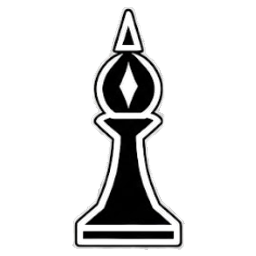
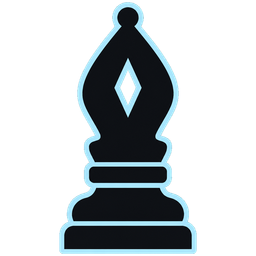
Regenerate Nexus pieces for clearer side and king/queen contrast.
White pieces are solid white with navy outlines; black pieces are dark with cyan outlines. Kings use a cross crown; queens use a multi-spike coronet.

Changed region(s): [[0.2188, 0.0, 0.7812, 1.0]]

diff --git a/website/public/games/nexus-chess/web/assets/index-BVtmO4iQ.js b/website/public/games/nexus-chess/web/assets/index-BVtmO4iQ.js
@@ -1,0 +1,1 @@
+(function(){const t=document.createElement("link").relList;if(t&&t.supports&&t.supports("modulepreload"))return;for(const r of document.querySelectorAll('link[rel="modulepreload"]'))o(r);new MutationObserver(r=>{for(const i of r)if(i.type==="childList")for(const a of i.addedNodes)a.tagName==="LINK"&&a.rel==="modulepreload"&&o(a)}).observe(document,{childList:!0,subtree:!0});function n(r){const i={};return r.integrity&&(i.integrity=r.integrity),r.referrerPolicy&&(i.referrerPolicy=r.referrerPolicy),r.crossOrigin==="use-credentials"?i.credentials="include":r.crossOrigin==="anonymous"?i.credentials="omit":i.credentials="same-origin",i}function o(r){if(r.ep)return;r.ep=!0;const i=n(r);fetch(r.href,i)}})();const ge=["d4","d5","e4","e5"];function B(e){return ge.includes(e)}function W(e){const t=e.charCodeAt(0)-97;return[e.charCodeAt(1)-49,t]}function k(e,t){return String.fromCharCode(97+t)+String.fromCharCode(49+e)}function de(e,t){return{kind:e,color:t,isShielded:!1,shieldExpiresTurn:-1,nexusTurnCount:0,hasMoved:!1}}function It(){const e=new Map,t=["R","N","B","Q","K","B","N","R"];for(let n=0;n<8;n++)e.set(k(0,n),de(t[n],"w")),e.set(k(1,n),de("P","w")),e.set(k(6,n),de("P","b")),e.set(k(7,n),de(t[n],"b"));return e}function lt(){return{board:It(),players:[{color:"w",mana:0},{color:"b",mana:0}],activeColor:"w",turnPhase:"ability",turnNumber:1,winner:null,enPassantSquare:null,overdriveSquare:null,overdriveMovesLeft:0}}function V(e,t){for(const[n,o]of e)if(o.kind==="K"&&o.color===t)return n;return null}function Lt(e){return{...e}}function ye(e){const t=new Map;for(const[n,o]of e)t.set(n,Lt(o));return t}function ve(e){return e.players[e.activeColor==="w"?0:1]}function le(e){return e==="w"?"b":"w"}const Wt=10;function at(e){return Math.min(Wt,Math.max(0,e))}function st(e){return e.activeColor==="w"?0:1}function Ot(e){const t=st(e),n=[{...e.players[0]},{...e.players[1]}];let o=0;for(const[r,i]of e.board)i.color===e.activeColor&&B(r)&&o++;return n[t].mana=at(n[t].mana+1+o),{...e,players:n}}function He(e,t){const n=st(e);if(e.players[n].mana<t)return null;const o=[{...e.players[0]},{...e.players[1]}];return o[n].mana=at(o[n].mana-t),{...e,players:o}}const _={aegis:3,overdrive:4,tacticalSwap:5};function ct(e,t){const n=e.board.get(t);return!(!n||n.color!==e.activeColor||n.isShielded||ve(e).mana<_.aegis||n.kind==="K"&&B(t))}function Kt(e,t){if(!ct(e,t))return null;const n=He(e,_.aegis);if(!n)return null;const o=ye(n.board),r={...o.get(t)};return r.isShielded=!0,r.shieldExpiresTurn=n.turnNumber+1,o.set(t,r),{...n,board:o}}function ut(e,t){const n=e.board.get(t);return!(!n||n.color!==e.activeColor||n.kind==="K"||ve(e).mana<_.overdrive||e.overdriveSquare)}function Ht(e,t){if(!ut(e,t))return null;const n=He(e,_.overdrive);return n?{...n,overdriveSquare:t,overdriveMovesLeft:2}:null}function ft(e,t){const n=e.board.get(t);return!(!n||n.color!==e.activeColor||n.kind==="K"||ve(e).mana<_.tacticalSwap||!V(e.board,e.activeColor)||B(t))}function zt(e,t){if(!ft(e,t))return null;const n=He(e,_.tacticalSwap);if(!n)return null;const o=ye(n.board),r=V(o,e.activeColor),i={...o.get(r)},a={...o.get(t)};return o.set(r,a),o.set(t,i),{...n,board:o}}function Dt(e,t){switch(t.ability){case"aegis":return!!t.target&&ct(e,t.target);case"overdrive":return!!t.target&&ut(e,t.target);case"tacticalSwap":return!!t.target&&ft(e,t.target)}}function Yt(e,t){switch(t.ability){case"aegis":return t.target?Kt(e,t.target):null;case"overdrive":return t.target?Ht(e,t.target):null;case"tacticalSwap":return t.target?zt(e,t.target):null}}function _t(e,t){const n=[];for(const[o,r]of e.board){if(r.color!==e.activeColor)continue;Dt(e,{ability:t,target:o})&&n.push(o)}return n}function pe(e,t){return e>=0&&e<8&&t>=0&&t<8}function ze(e,t,n){const o=e.get(t);return!(!o||o.color===n||o.kind==="K"&&!B(t))}function D(e,t){return!e.has(t)}function Te(e,t,n,o){const[r,i]=W(t),a=[];for(const[s,c]of o){let l=r+s,f=i+c;for(;pe(l,f);){const h=k(l,f);if(D(e,h))a.push({from:t,to:h});else{ze(e,h,n)&&a.push({from:t,to:h});break}l+=s,f+=c}}return a}function Je(e,t,n,o){const[r,i]=W(t),a=[];for(const[s,c]of o){const l=r+s,f=i+c;if(!pe(l,f))continue;const h=k(l,f);(D(e,h)||ze(e,h,n))&&a.push({from:t,to:h})}return a}const dt=[[1,0],[-1,0],[0,1],[0,-1]],ht=[[1,1],[1,-1],[-1,1],[-1,-1]],Gt=[...dt,...ht],Ft=[[2,1],[2,-1],[-2,1],[-2,-1],[1,2],[1,-2],[-1,2],[-1,-2]],Xt=[[1,0],[-1,0],[0,1],[0,-1],[1,1],[1,-1],[-1,1],[-1,-1]];function Ut(e,t,n,o){const[r,i]=W(t),a=n==="w"?1:-1,s=n==="w"?1:6,c=n==="w"?7:0,l=[],f=r+a;if(pe(f,i)){const h=k(f,i);if(D(e,h)){if(f===c)for(const d of["Q","R","B","N"])l.push({from:t,to:h,promotion:d});else l.push({from:t,to:h});if(r===s){const d=r+a*2,g=k(d,i);D(e,g)&&l.push({from:t,to:g})}}}for(const h of[-1,1]){if(!pe(f,i+h))continue;const d=k(f,i+h),g=d===o;if(ze(e,d,n)||g)if(f===c)for(const b of["Q","R","B","N"])l.push({from:t,to:d,promotion:b,isEnPassant:g?!0:void 0});else l.push({from:t,to:d,isEnPassant:g?!0:void 0})}return l}function Qt(e,t,n){const o=e.get(t);if(!o||o.hasMoved)return[];const r=n==="w"?0:7,i=[],a=e.get(k(r,7));if(a&&!a.hasMoved&&a.kind==="R"&&a.color===n){const c=k(r,5),l=k(r,6);D(e,c)&&D(e,l)&&i.push({from:t,to:l,isCastle:!0})}const s=e.get(k(r,0));if(s&&!s.hasMoved&&s.kind==="R"&&s.color===n){const c=k(r,3),l=k(r,2),f=k(r,1);D(e,c)&&D(e,l)&&D(e,f)&&i.push({from:t,to:l,isCastle:!0})}return i}function gt(e,t){const n=e.board.get(t);if(!n)return[];const{board:o}=e,r=n.color;switch(n.kind){case"P":return Ut(o,t,r,e.enPassantSquare);case"N":return Je(o,t,r,Ft);case"B":return Te(o,t,r,ht);case"R":return Te(o,t,r,dt);case"Q":return Te(o,t,r,Gt);case"K":return[...Je(o,t,r,Xt),...Qt(o,t,r)]}}function pt(e){const t=[];for(const[n,o]of e.board)o.color===e.activeColor&&(e.overdriveSquare&&n!==e.overdriveSquare||t.push(...gt(e,n)));return t}function xe(e,t){const n=new Map(e.board),o={...e.board.get(t.from)};o.hasMoved=!0;let r=!1,i=null;if(t.isEnPassant){const[l,f]=W(t.to),h=k(l+(o.color==="w"?-1:1),f);n.delete(h),r=!0}else if(n.has(t.to)){const l=n.get(t.to);if(l.isShielded){const f={...l,isShielded:!1,shieldExpiresTurn:-1};return n.set(t.to,f),n.delete(t.from),n.set(t.from,o),{...e,board:n,enPassantSquare:null,overdriveMovesLeft:Math.max(0,e.overdriveMovesLeft-1)}}r=!0}if(n.delete(t.from),t.promotion&&(o.kind=t.promotion),n.set(t.to,o),t.isCastle){const[l]=W(t.to),[,f]=W(t.to);if(f===6){const h={...n.get(k(l,7))};h.hasMoved=!0,n.delete(k(l,7)),n.set(k(l,5),h)}else{const h={...n.get(k(l,0))};h.hasMoved=!0,n.delete(k(l,0)),n.set(k(l,3),h)}}if(o.kind==="P"){const[l]=W(t.from),[f,h]=W(t.to);Math.abs(f-l)===2&&(i=k((l+f)/2,h))}const a=[{...e.players[0]},{...e.players[1]}];if(r){const l=e.activeColor==="w"?0:1;a[l].mana=Math.min(10,a[l].mana+2)}let s=e.overdriveSquare,c=e.overdriveMovesLeft;return s===t.from&&(s=t.to,c=Math.max(0,c-1)),{...e,board:n,players:a,enPassantSquare:i,overdriveSquare:s,overdriveMovesLeft:c}}function Vt(e){for(const t of["w","b"]){const n=V(e.board,t);if(n&&B(n)&&e.board.get(n).nexusTurnCount>=2)return t}return null}function Jt(e,t){const n=le(t.activeColor);if(V(t.board,n))return null;for(const[r,i]of e)if(i.kind==="K"&&i.color===n&&B(r))return t.activeColor;return null}function De(e){let t=Ot(e);const n=ye(t.board),o=V(n,t.activeColor);if(o){const i={...n.get(o)};B(o)?i.nexusTurnCount++:i.nexusTurnCount=0,n.set(o,i)}t={...t,board:n,turnPhase:"ability"};const r=Vt(t);return r?{...t,winner:r}:t}function mt(e,t){if(e.turnPhase!=="ability")return e;let n=e;if(t){const o=Yt(n,t);o&&(n=o)}return{...n,turnPhase:n.overdriveSquare?"overdrive":"move"}}function ae(e){return mt(e,null)}function se(e,t){if(e.turnPhase!=="move"&&e.turnPhase!=="overdrive")return e;const n=new Map([...e.board].map(([a,s])=>[a,{kind:s.kind,color:s.color}]));let o=xe(e,t);if(o.overdriveSquare&&o.overdriveMovesLeft>0){const[a]=[t.to.charCodeAt(1)-49];return o.overdriveMovesLeft===1&&(a===0||a===7)?e:{...o,turnPhase:"overdrive"}}o={...o,overdriveSquare:null,overdriveMovesLeft:0};const r=Jt(n,o);if(r)return{...o,winner:r,turnPhase:"resolved"};const i=ye(o.board);for(const[a,s]of i)if(s.isShielded&&s.shieldExpiresTurn<=o.turnNumber){const c={...s,isShielded:!1,shieldExpiresTurn:-1};i.set(a,c)}return{...o,board:i,turnPhase:"resolved"}}function Ye(e){if(e.turnPhase!=="resolved")return e;const t={...e,activeColor:le(e.activeColor),turnNumber:e.turnNumber+1,turnPhase:"ability",enPassantSquare:e.enPassantSquare};return De(t)}const jt={1:1,2:3,3:4,4:5},Zt={1:40,2:28,3:24,4:22},Re={P:100,N:320,B:330,R:500,Q:900,K:0};function en(e,t){const[n,o]=W(e),[r,i]=W(t);return Math.abs(n-r)+Math.abs(o-i)}function oe(e){if(B(e))return 0;let t=1/0;for(const n of ge){const o=en(e,n);o<t&&(t=o)}return t}function me(e,t,n){if(!B(t))return!1;const o={...e,activeColor:n,overdriveSquare:null};for(const r of pt(o))if(r.to===t)return!0;return!1}function be(e,t){if(e.winner===t)return 1e6;if(e.winner&&e.winner!==t)return-1e6;const n=le(t);let o=0,r=0,i=0,a=0,s=0;for(const[d,g]of e.board){const b=Re[g.kind];g.color===t?(r+=b,B(d)&&g.kind!=="K"&&a++):(i+=b,B(d)&&g.kind!=="K"&&s++)}o+=r-i,o+=(a-s)*80;const c=V(e.board,t),l=V(e.board,n);if(c){const d=oe(c),g=e.board.get(c);d===0?(o+=5500+g.nexusTurnCount*4e3,me(e,c,n)&&(o-=2e3)):o+=(14-d)*220}else o-=5e4;if(l){const d=oe(l),g=e.board.get(l);d===0?(o-=5500+g.nexusTurnCount*4e3,me(e,l,t)&&(o+=3500)):o-=(14-d)*220}const f=e.players[t==="w"?0:1].mana,h=e.players[n==="w"?0:1].mana;return o+=(f-h)*12,o}function tn(e,t,n){let o=0;const r=e.board.get(t.from),i=e.board.get(t.to);if(i&&i.kind==="K"&&B(t.to))return 1e5;if(i&&i.kind!=="K"&&(o+=Re[i.kind]*10-Re[r.kind]),r.kind==="K"){const a=oe(t.from),s=oe(t.to);if(s===0&&a>0){o+=5e3;const c=xe(e,t);me(c,t.to,le(n))&&(o-=1500)}if(a===0&&s===0){o+=2e3;const c=xe(e,t);me(c,t.to,le(n))&&(o-=800)}a===0&&s>0&&(o-=4e3),s<a?o+=(a-s)*400:s>a&&(o-=(s-a)*250)}else B(t.to)&&!B(t.from)&&(o+=120),B(t.from)&&!B(t.to)&&(o-=40),i&&oe(t.to)<=2&&(o+=30);return o}function nn(e,t){if(e.board.has(t.to))return!0;const n=e.board.get(t.from);return n?!!(n.kind==="K"&&B(t.to)):!1}function ce(e,t){let n=e;if(n.turnPhase==="ability"&&(n=ae(n)),n=se(n,t),n.winner)return n;if(n.turnPhase==="overdrive"){const o=ue(n,8);if(o.length>0&&(n=se(n,o[0]),n.winner))return n}return n.turnPhase==="resolved"&&(n=Ye(n)),n}function we(e){return e.turnPhase==="ability"?ae(e):e}function ue(e,t=40){const n=we(e),o=pt(n),r=n.activeColor;return o.map(i=>({m:i,sc:tn(n,i,r)})).sort((i,a)=>a.sc-i.sc).slice(0,t).map(i=>i.m)}function $e(e,t,n,o,r){if(e.winner)return be(e,o);const i=be(e,o),a=e.activeColor===o;if(r>=4)return i;if(a){if(i>=n)return n;i>t&&(t=i)}else{if(i<=t)return t;i<n&&(n=i)}const s=we(e),c=ue(s,16).filter(f=>nn(s,f));if(c.length===0)return i;if(a){let f=i;for(const h of c){const d=ce(e,h);if(f=Math.max(f,$e(d,t,n,o,r+1)),t=Math.max(t,f),t>=n)break}return f}let l=i;for(const f of c){const h=ce(e,f);if(l=Math.min(l,$e(h,t,n,o,r+1)),n=Math.min(n,l),t>=n)break}return l}function Ae(e,t,n,o,r,i){if(e.winner)return be(e,r);if(t===0)return $e(e,n,o,r,0);const a=e.activeColor===r,s=ue(e,i);if(s.length===0)return be(e,r);if(a){let l=-1/0;for(const f of s){const h=ce(e,f);if(l=Math.max(l,Ae(h,t-1,n,o,r,i)),n=Math.max(n,l),n>=o)break}return l}let c=1/0;for(const l of s){const f=ce(e,l);if(c=Math.min(c,Ae(f,t-1,n,o,r,i)),o=Math.min(o,c),n>=o)break}return c}function Ee(e){return e[Math.floor(Math.random()*e.length)]}function on(e){const t=we(e),n=ue(t,40);if(n.length===0)return null;const o=Math.random();return o<.6?n[0]:o<.9?Ee(n.slice(0,Math.min(3,n.length))):Ee(n.slice(0,Math.min(8,n.length)))}function rn(e,t,n){const o=we(e),r=o.activeColor,i=ue(o,n);if(i.length===0)return null;let a=[i[0]];for(let s=1;s<=t;s++){let c=-1/0,l=[];const f=[...a,...i.filter(h=>!a.some(d=>d.from===h.from&&d.to===h.to&&d.promotion===h.promotion))];for(const h of f){const d=ce(o,h),g=Ae(d,s-1,-1/0,1/0,r,n);g>c?(c=g,l=[h]):g===c&&l.push(h)}a=l}return Ee(a)}function je(e,t=2){return t===0?null:t===1?on(e):rn(e,jt[t],Zt[t])}function ln(e,t=2){if(t===0)return e;let n=e;n.turnPhase==="ability"&&(n=ae(n));const o=je(n,t);if(!o||(n=se(n,o),n.winner))return n;for(;n.turnPhase==="overdrive"&&!n.winner;){const r=je(n,t===1?1:2);if(!r)break;n=se(n,r)}return n.winner?n:n.turnPhase==="resolved"?Ye(n):n}function an(e){switch(e){case 1:return 250;case 2:return 120;case 3:return 80;case 4:return 40;default:return 0}}const bt=1200,St=32,_e=100,Ge=3e3,Z=100,Pe=[{label:"New to Chess",elo:400,blurb:"Just learning the rules"},{label:"Beginner",elo:800,blurb:"Know the basics"},{label:"Intermediate",elo:1200,blurb:"Regular player"},{label:"Advanced",elo:1600,blurb:"Strong club level"},{label:"Expert",elo:2e3,blurb:"Tournament strength"},{label:"Master",elo:2400,blurb:"Elite"}],re=[400,600,800,1e3,1200,1400,1600,1800,2e3,2200,2500],yt="nexus-chess-elo";function sn(e,t){return 1/(1+Math.pow(10,(t-e)/400))}function cn(e,t,n,o=St){return Math.round(o*(n-sn(e,t)))}function un(e,t,n,o=St){return Math.max(_e,Math.min(Ge,e+cn(e,t,n,o)))}function F(e){const t=Math.round(e/Z)*Z;return Math.max(_e,Math.min(Ge,t))}function vt(e){return e<=900?1:e<=1300?2:e<=1700?3:4}function Ze(){return{rating:bt,games:0,wins:0,losses:0,draws:0,hasSetRating:!1}}function Fe(){try{const e=localStorage.getItem(yt);if(!e)return Ze();const t=JSON.parse(e);return{rating:typeof t.rating=="number"?F(t.rating):bt,games:typeof t.games=="number"?t.games:0,wins:typeof t.wins=="number"?t.wins:0,losses:typeof t.losses=="number"?t.losses:0,draws:typeof t.draws=="number"?t.draws:0,hasSetRating:t.hasSetRating===!0}}catch{return Ze()}}function wt(e){localStorage.setItem(yt,JSON.stringify(e))}function fn(e,t){const n={...e,rating:F(t),hasSetRating:!0};return wt(n),n}function dn(e,t,n){if(!n)return{profile:e,result:null};const o=F(t),r=n==="w"?1:0,i=e.rating,a=un(i,o,r),s=a-i,c={...e,rating:a,games:e.games+1,wins:e.wins+(r===1?1:0),losses:e.losses+(r===0?1:0),hasSetRating:!0};return wt(c),{profile:c,result:{before:i,after:a,delta:s,opponentElo:o}}}const hn={id:"classic",label:"Classic",bg:"#050506",bgSoft:"#0a0a0c",tileDark:"#0c0c0e",tileLight:"#16161a",tileSheen:"rgba(255,255,255,0.035)",nexus:"#ffffff",nexusGlow:"rgba(255,255,255,0.55)",accent:"#f5f5f6",accentDim:"rgba(245,245,246,0.35)",ink:"#f5f5f6",inkDim:"rgba(245,245,246,0.62)",inkMute:"rgba(245,245,246,0.32)",inkFaint:"rgba(245,245,246,0.14)",hairline:"rgba(245,245,246,0.14)",hairlineStrong:"rgba(245,245,246,0.42)",hairlineBright:"rgba(245,245,246,0.72)",whitePiece:"#fafafb",blackPiece:"#9a9ea8",pieceShadow:"rgba(0,0,0,0.55)",btnFill:"rgba(255,255,255,0.045)",btnFillActive:"rgba(255,255,255,0.1)",radius:4,font:'"Space Grotesk", "Segoe UI", system-ui, sans-serif',pieceMode:"unicode",angular:!1,backdropUrl:null},kt={id:"nexus",label:"Nexus",bg:"#03050a",bgSoft:"#070b14",tileDark:"#080c14",tileLight:"#121a28",tileSheen:"rgba(140,200,230,0.05)",nexus:"#9fdfff",nexusGlow:"rgba(120,210,255,0.55)",accent:"#8ed6ff",accentDim:"rgba(142,214,255,0.35)",ink:"#eef7ff",inkDim:"rgba(220,235,250,0.7)",inkMute:"rgba(170,200,230,0.4)",inkFaint:"rgba(140,180,220,0.16)",hairline:"rgba(150,200,240,0.18)",hairlineStrong:"rgba(160,210,255,0.45)",hairlineBright:"rgba(190,230,255,0.85)",whitePiece:"#f4fbff",blackPiece:"#7a8798",pieceShadow:"rgba(0,8,20,0.65)",btnFill:"rgba(120,180,230,0.06)",btnFillActive:"rgba(120,200,255,0.14)",radius:1,font:'"Space Grotesk", "Segoe UI", system-ui, sans-serif',pieceMode:"sprites",angular:!0,backdropUrl:"./themes/nexus/backdrop.png"},gn={nexus:kt,classic:hn},Mt="nexus-chess-theme";function pn(){try{const e=localStorage.getItem(Mt);if(e==="classic"||e==="nexus")return e}catch{}return"nexus"}let u=kt;function Tt(e){u=gn[e];try{localStorage.setItem(Mt,e)}catch{}return u}function mn(){return Tt(pn())}let ee=null,qe=!1,Se=null,Be=!1;function Pt(){return Promise.all([new Promise(e=>{if(!u.backdropUrl){ee=null,qe=!1,e();return}const t=new Image;t.onload=()=>{ee=t,qe=!0,e()},t.onerror=()=>e(),t.src=u.backdropUrl}),new Promise(e=>{if(u.id!=="nexus"){Se=null,Be=!1,e();return}const t=new Image;t.onload=()=>{Se=t,Be=!0,e()},t.onerror=()=>e(),t.src="./themes/nexus/tile.png"})]).then(()=>{})}function Y(e,t,n,o,r,i=u.radius){const a=Math.max(0,Math.min(i,o/2,r/2));if(e.beginPath(),a<=.5){e.rect(t,n,o,r);return}e.moveTo(t+a,n),e.arcTo(t+o,n,t+o,n+r,a),e.arcTo(t+o,n+r,t,n+r,a),e.arcTo(t,n+r,t,n,a),e.arcTo(t,n,t+o,n,a),e.closePath()}function J(e,t,n,o=0){if(e.fillStyle=u.bg,e.fillRect(0,0,t,n),qe&&ee){const l=ee.naturalWidth,f=ee.naturalHeight,h=Math.max(t/l,n/f),d=l*h,g=f*h;e.save(),e.globalAlpha=u.id==="nexus"?.55:.35,e.drawImage(ee,(t-d)/2,(n-g)/2,d,g),e.restore()}const r=.7+.12*Math.sin(o*.7),i=t*.5,a=n*.38,s=e.createRadialGradient(i,a,0,i,a,Math.max(t,n)*.58);if(u.id==="nexus"?(s.addColorStop(0,`rgba(120,200,255,${.1*r})`),s.addColorStop(.4,`rgba(80,160,220,${.035*r})`),s.addColorStop(1,"rgba(0,0,0,0)")):(s.addColorStop(0,`rgba(255,255,255,${.07*r})`),s.addColorStop(.4,`rgba(255,255,255,${.022*r})`),s.addColorStop(1,"rgba(0,0,0,0)")),e.fillStyle=s,e.fillRect(0,0,t,n),u.id==="nexus"){e.save(),e.strokeStyle="rgba(120,180,230,0.04)",e.lineWidth=1;const l=48,f=o*4%l;for(let h=-l+f;h<t+l;h+=l)e.beginPath(),e.moveTo(h,0),e.lineTo(h,n),e.stroke();for(let h=-l+f*.5;h<n+l;h+=l)e.beginPath(),e.moveTo(0,h),e.lineTo(t,h),e.stroke();e.restore()}const c=e.createRadialGradient(t/2,n/2,Math.min(t,n)*.2,t/2,n/2,Math.max(t,n)*.75);c.addColorStop(0,"rgba(0,0,0,0)"),c.addColorStop(1,u.id==="nexus"?"rgba(0,4,12,0.72)":"rgba(0,0,0,0.62)"),e.fillStyle=c,e.fillRect(0,0,t,n)}function bn(e,t,n,o){const i=e.createRadialGradient(t+o/2,n+o*.55,o*.15,t+o/2,n+o*.6,o*.72);i.addColorStop(0,u.id==="nexus"?"rgba(0,20,40,0.7)":"rgba(0,0,0,0.55)"),i.addColorStop(1,"rgba(0,0,0,0)"),e.fillStyle=i,e.fillRect(t-18,n-18*.4,o+36,o+18*1.4)}function Sn(e,t,n,o,r,i={}){i.fill!==!1&&(e.fillStyle=u.btnFill,Y(e,t,n,o,r),e.fill()),e.strokeStyle=i.strong?u.hairlineStrong:u.hairline,e.lineWidth=1,Y(e,t+.5,n+.5,o-1,r-1),e.stroke(),u.angular&&i.strong&&(e.strokeStyle=u.accent,e.lineWidth=1.25,e.beginPath(),e.moveTo(t,n+8),e.lineTo(t,n),e.lineTo(t+8,n),e.moveTo(t+o-8,n),e.lineTo(t+o,n),e.lineTo(t+o,n+8),e.moveTo(t+o,n+r-8),e.lineTo(t+o,n+r),e.lineTo(t+o-8,n+r),e.moveTo(t+8,n+r),e.lineTo(t,n+r),e.lineTo(t,n+r-8),e.stroke())}function R(e,t,n,o={}){const{x:r,y:i,w:a,h:s}=t,c=o.fontSize??15;if(o.primary){const l=e.createLinearGradient(r,i,r,i+s);u.id==="nexus"?(l.addColorStop(0,"rgba(140,210,255,0.28)"),l.addColorStop(.5,"rgba(80,160,220,0.14)"),l.addColorStop(1,"rgba(40,100,160,0.1)")):(l.addColorStop(0,"rgba(255,255,255,0.22)"),l.addColorStop(.5,"rgba(255,255,255,0.14)"),l.addColorStop(1,"rgba(255,255,255,0.08)")),e.fillStyle=l,Y(e,r,i,a,s),e.fill(),e.strokeStyle=u.hairlineBright}else o.active?(e.fillStyle=u.btnFillActive,Y(e,r,i,a,s),e.fill(),e.strokeStyle=u.hairlineBright):(e.fillStyle=u.btnFill,Y(e,r,i,a,s),e.fill(),e.strokeStyle=o.muted?u.inkFaint:u.hairline);e.lineWidth=1,Y(e,r+.5,i+.5,a-1,s-1),e.stroke(),u.angular&&(o.primary||o.active)&&(e.strokeStyle=u.accent,e.lineWidth=1,e.beginPath(),e.moveTo(r,i+6),e.lineTo(r,i),e.lineTo(r+6,i),e.moveTo(r+a-6,i+s),e.lineTo(r+a,i+s),e.lineTo(r+a,i+s-6),e.stroke()),e.textAlign="center",e.textBaseline="middle",e.fillStyle=o.muted?u.inkMute:o.primary||o.active?u.ink:u.inkDim,o.sub?(e.font=`500 ${c}px ${u.font}`,e.fillText(n,r+a/2,i+s/2-7),e.fillStyle=u.inkMute,e.font=`400 ${Math.max(10,c-2)}px ${u.font}`,e.fillText(o.sub,r+a/2,i+s/2+11)):(e.font=`500 ${c}px ${u.font}`,e.fillText(n,r+a/2,i+s/2+.5))}function yn(e,t,n,o,r){e.fillStyle=r?u.tileLight:u.tileDark,e.fillRect(t,n,o,o),Be&&Se&&u.id==="nexus"&&(e.save(),e.globalAlpha=r?.22:.14,e.drawImage(Se,t,n,o,o),e.restore()),r&&(e.fillStyle=u.tileSheen,e.fillRect(t,n,o,1))}const vn=["K","Q","R","B","N","P"],wn=["w","b"],Ne=new Map;let et=!1,he=null;function Ct(e,t){return e+t}function kn(){return et?Promise.resolve():he||(he=Promise.all(wn.flatMap(e=>vn.map(t=>new Promise(n=>{const o=new Image;o.onload=()=>{Ne.set(Ct(e,t),o),n()},o.onerror=()=>n(),o.src=`./themes/nexus/pieces/${e}${t}.png`})))).then(()=>{et=Ne.size>0}),he)}function Ie(e,t){return Ne.get(Ct(e,t))??null}function xt(e,t,n,o,r,i,a){const c=u.pieceMode==="sprites"?Ie(t,n):null;if(c&&c.complete&&c.naturalWidth>0){const l=i*.86;e.save(),e.globalAlpha=.35,e.fillStyle=u.pieceShadow,e.beginPath(),e.ellipse(o,r+l*.42,l*.28,l*.08,0,0,Math.PI*2),e.fill(),e.restore(),e.save(),u.id==="nexus"&&t==="b"?(e.shadowColor="rgba(140,210,255,0.45)",e.shadowBlur=Math.max(4,i*.08)):u.id==="nexus"&&t==="w"&&(e.shadowColor="rgba(200,240,255,0.25)",e.shadowBlur=Math.max(3,i*.05)),e.drawImage(c,o-l/2,r-l/2,l,l),e.restore();return}e.font=`${i*.68}px Georgia, "Times New Roman", serif`,e.textAlign="center",e.textBaseline="middle",e.fillStyle=u.pieceShadow,e.fillText(a,o+.5,r+i*.04),t==="w"?(e.fillStyle=u.whitePiece,e.fillText(a,o,r)):(e.fillStyle=u.blackPiece,e.fillText(a,o,r),e.strokeStyle="rgba(255,255,255,0.28)",e.lineWidth=.8,e.strokeText(a,o,r))}const Mn={wK:"♔",wQ:"♕",wR:"♖",wB:"♗",wN:"♘",wP:"♙",bK:"♚",bQ:"♛",bR:"♜",bB:"♝",bN:"♞",bP:"♟"};let te=null,Xe=!1;function Tn(){return new Promise(e=>{const t=new Image;t.onload=()=>{te=t,Xe=!0,e(t)},t.onerror=()=>e(null),t.src="./logo.png"})}function Pn(){return Xe?te:null}function Cn(e,t){return t?Math.max(136,Math.min(172,e*.32)):168}function Rt(e){const t=window.devicePixelRatio||1,n=window.visualViewport,o=Math.floor((n==null?void 0:n.width)??window.innerWidth),r=Math.floor((n==null?void 0:n.height)??window.innerHeight),i=o<640||r<700;e.width=Math.max(1,Math.floor(o*t)),e.height=Math.max(1,Math.floor(r*t)),e.style.width=o+"px",e.style.height=r+"px";const a=e.getContext("2d");a.setTransform(t,0,0,t,0,0);const s=i?16:28,c=i?78:100,l=Cn(r,i),f=o-s*2,h=r-c-l,d=i?560:Math.min(680,Math.floor(Math.min(f,h))),g=Math.max(160,Math.min(f,h,d)),b=g/8,v=(o-g)/2,M=c+Math.max(0,(h-g)/2);return{ctx:a,boardX:v,boardY:M,cellSize:b,boardSize:g,width:o,height:r,compact:i,pad:s}}function X(e,t,n=!1){const[o,r]=W(t),i=n?7-r:r,a=n?o:7-o;return[e.boardX+i*e.cellSize,e.boardY+a*e.cellSize]}function xn(e,t,n,o=!1){const r=Math.floor((t-e.boardX)/e.cellSize),i=Math.floor((n-e.boardY)/e.cellSize);if(r<0||r>7||i<0||i>7)return null;const a=o?7-r:r,s=o?i:7-i;return k(s,a)}function Rn(e){const{ctx:t,compact:n,pad:o}=e,r=n?52:76;if(Xe&&te){const i=te.naturalWidth/Math.max(1,te.naturalHeight),a=r*i,s=n?10:12;t.drawImage(te,o,s,a,r)}else t.fillStyle=u.ink,t.font=`500 ${n?22:28}px ${u.font}`,t.textAlign="left",t.textBaseline="middle",t.fillText("NEXUS",o,n?30:40)}function $n(e,t,n){const{ctx:o,cellSize:r}=e,i=.1+.06*(.5+.5*Math.sin(t*1.4)),a=u.id==="nexus",s=ge.map(b=>X(e,b,n)),c=Math.min(...s.map(([b])=>b)),l=Math.min(...s.map(([,b])=>b)),f=r*2,h=c+f/2,d=l+f/2,g=o.createRadialGradient(h,d,0,h,d,f*.9);a?(g.addColorStop(0,`rgba(140,220,255,${.14+i*.4})`),g.addColorStop(.5,`rgba(80,170,230,${.05+i*.15})`),g.addColorStop(1,"rgba(40,100,160,0)")):(g.addColorStop(0,`rgba(255,255,255,${.07+i*.35})`),g.addColorStop(.55,`rgba(255,255,255,${.025+i*.12})`),g.addColorStop(1,"rgba(255,255,255,0)")),o.fillStyle=g,o.fillRect(c-r*.35,l-r*.35,f+r*.7,f+r*.7);for(const b of ge){const[v,M]=X(e,b,n),P=v+r/2,m=M+r/2,p=o.createRadialGradient(P,m,0,P,m,r*.55);a?(p.addColorStop(0,`rgba(160,230,255,${i+.06})`),p.addColorStop(1,"rgba(100,180,230,0)")):(p.addColorStop(0,`rgba(255,255,255,${i+.04})`),p.addColorStop(1,"rgba(255,255,255,0)")),o.fillStyle=p,o.fillRect(v,M,r,r)}o.strokeStyle=a?`rgba(160,230,255,${.35+i})`:`rgba(255,255,255,${.18+i*.9})`,o.lineWidth=a?1.5:1,o.strokeRect(c+1.5,l+1.5,f-3,f-3),a&&(o.strokeStyle=`rgba(120,200,255,${.2+i*.4})`,o.lineWidth=1,o.strokeRect(c+5,l+5,f-10,f-10))}function An(e,t,n,o,r,i,a){xt(e,i,a,n,o,r,t)}function En(e,t,n,o,r,i,a,s=!1,c=null){const{ctx:l,boardX:f,boardY:h,cellSize:d,boardSize:g,width:b,height:v,compact:M}=e;J(l,b,v,n),Rn(e),bn(l,f,h,g),l.fillStyle=u.bgSoft,l.fillRect(f-3,h-3,g+6,g+6);for(let m=0;m<8;m++)for(let p=0;p<8;p++){const S=f+p*d,w=h+(7-m)*d,T=s?7-m:m,A=s?7-p:p,C=(T+A)%2!==0;yn(l,S,w,d,C)}if(l.strokeStyle=u.id==="nexus"?u.hairlineBright:u.hairlineStrong,l.lineWidth=u.id==="nexus"?1.5:1,l.strokeRect(f-.5,h-.5,g+1,g+1),u.id==="nexus"&&(l.strokeStyle=u.accentDim,l.lineWidth=1,l.strokeRect(f-4.5,h-4.5,g+9,g+9)),$n(e,n,s),o){const[m,p]=X(e,o,s);l.fillStyle=u.id==="nexus"?"rgba(140,210,255,0.12)":"rgba(255,255,255,0.1)",l.fillRect(m,p,d,d),l.strokeStyle=u.id==="nexus"?u.accent:"rgba(255,255,255,0.7)",l.lineWidth=1.25,l.strokeRect(m+2,p+2,d-4,d-4)}const P=new Set(r.map(m=>m.to));for(const m of P){const[p,S]=X(e,m,s),w=p+d/2,T=S+d/2;t.board.has(m)?(l.strokeStyle=u.id==="nexus"?u.accent:"rgba(255,255,255,0.55)",l.lineWidth=1.5,l.beginPath(),l.arc(w,T,d*.4,0,Math.PI*2),l.stroke()):(l.fillStyle=u.id==="nexus"?"rgba(160,230,255,0.55)":"rgba(255,255,255,0.42)",l.beginPath(),l.arc(w,T,Math.max(2.8,d*.08),0,Math.PI*2),l.fill())}if(a)for(const m of i){const[p,S]=X(e,m,s);l.strokeStyle="rgba(255,255,255,0.45)",l.lineWidth=1,l.strokeRect(p+4,S+4,d-8,d-8)}for(const[m,p]of t.board){if(c&&m===c)continue;const[S,w]=X(e,m,s),T=S+d/2,A=w+d/2;p.isShielded&&(l.strokeStyle="rgba(255,255,255,0.5)",l.lineWidth=1,Y(l,S+5,w+5,d-10,d-10,2),l.stroke()),t.overdriveSquare===m&&(l.fillStyle="rgba(255,255,255,0.07)",l.fillRect(S,w,d,d));const C=Mn[p.color+p.kind];An(l,C,T,A,d,p.color,p.kind)}if(!M||d>=40){l.font=`400 ${Math.max(9,Math.min(10,d*.18))}px ${u.font}`,l.fillStyle=u.inkMute,l.textAlign="center",l.textBaseline="middle";for(let m=0;m<8;m++){const p=s?"hgfedcba"[m]:"abcdefgh"[m];l.fillText(p,f+m*d+d/2,h+g+14)}l.textAlign="right";for(let m=0;m<8;m++){const p=String(s?8-m:m+1);l.fillText(p,f-8,h+(7-m)*d+d/2)}}}function qn(e,t,n,o){const{ctx:r,boardSize:i,width:a,compact:s}=e;n.length=0;const c=e.boardY+i+(s?22:28),l=Math.min(i,a-e.pad*2),f=(a-l)/2,h=s?36:34,d=s?11:12;{const p=s?12:16,S=s?72:84,w={x:a-e.pad-S,y:p,w:S,h:30,id:"play-menu"};R(r,w,"Menu",{fontSize:d}),n.push(w),r.fillStyle=u.inkMute,r.font=`400 ${d}px ${u.font}`,r.textAlign="right",r.textBaseline="middle",r.fillText(o,w.x-12,p+15)}const g=s?22:56,b=3,v=s?20:24;for(let p=0;p<2;p++){const S=t.players[p],w=s?S.color==="w"?"W":"B":S.color==="w"?"White":"Black",T=c+p*v;r.fillStyle=u.inkDim,r.font=`400 ${d}px ${u.font}`,r.textAlign="left",r.textBaseline="middle",r.fillText(w,f,T+v/2);const A=f+g,C=l-g,q=T+(v-b)/2;r.fillStyle="rgba(255,255,255,0.06)",Y(r,A,q,C,b,1.5),r.fill();const O=Math.min(10,S.mana)/10*C;if(O>0){const N=r.createLinearGradient(A,0,A+O,0);N.addColorStop(0,"rgba(255,255,255,0.45)"),N.addColorStop(1,"rgba(255,255,255,0.85)"),r.fillStyle=N,Y(r,A,q,Math.max(O,b),b,1.5),r.fill()}}const M=c+v*2+(s?10:14),P=t.activeColor==="w"?"White":"Black",m=t.turnPhase==="ability"?"Ability":t.turnPhase==="overdrive"?"Overdrive":t.turnPhase==="move"?"Move":"";if(r.fillStyle=u.inkDim,r.font=`400 ${d}px ${u.font}`,r.textAlign="left",r.textBaseline="alphabetic",r.fillText(`Turn ${t.turnNumber}  ·  ${P}  ·  ${m}`,f,M),t.turnPhase==="ability"&&!t.winner){const p=M+(s?12:16),S=[{id:"aegis",label:"Aegis",cost:_.aegis},{id:"overdrive",label:s?"Drive":"Overdrive",cost:_.overdrive},{id:"tacticalSwap",label:"Swap",cost:_.tacticalSwap},{id:"skip",label:"Skip"}],w=s?8:10,T=(l-w*(S.length-1))/S.length,A=ve(t).mana;for(let C=0;C<S.length;C++){const q=S[C],O=f+C*(T+w),N=q.id==="skip"||q.cost!==void 0&&A>=q.cost,U={x:O,y:p,w:T,h,id:q.id},Me=q.id==="skip"?"Skip":`${q.label}  ${q.cost}`;R(r,U,Me,{muted:!N&&q.id!=="skip",primary:q.id==="skip",fontSize:s?11:12}),n.push(U)}}}function $t(){return{mode:"idle",selected:null,legalMoves:[],activeAbility:null,abilityTargetSquares:[]}}function Bn(e,t,n){for(const o of e)if(t>=o.x&&t<=o.x+o.w&&n>=o.y&&n<=o.y+o.h)return o.id;return null}function Nn(e,t,n,o,r,i,a=!1){const s=Bn(o,r,i);if(s){if(s==="skip")return{type:"skip"};if(s==="newgame")return{type:"newgame"};if(s==="play-menu")return{type:"menu"};if(s==="cycleai"||s==="toggleai")return{type:"cycleai"};if(s==="aegis"||s==="overdrive"||s==="tacticalSwap")return{type:"ability",ability:s}}const c=xn(n,r,i,a);if(!c)return{type:"none"};if(e.mode==="abilityTarget"&&e.activeAbility)return e.abilityTargetSquares.includes(c)?{type:"abilityTarget",square:c,ability:e.activeAbility}:{type:"deselect"};if(t.turnPhase==="ability"){const l=t.board.get(c);return l&&l.color===t.activeColor?{type:"selectAfterSkip",square:c}:{type:"none"}}if(t.turnPhase==="move"||t.turnPhase==="overdrive"){if(e.selected){const f=e.legalMoves.find(d=>d.to===c);if(f)return{type:"move",move:f,square:c};const h=t.board.get(c);return h&&h.color===t.activeColor?t.overdriveSquare&&c!==t.overdriveSquare?{type:"none"}:{type:"select",square:c}:{type:"deselect"}}const l=t.board.get(c);if(l&&l.color===t.activeColor)return t.overdriveSquare&&c!==t.overdriveSquare?{type:"none"}:{type:"select",square:c}}return{type:"none"}}function tt(e,t,n){const o=gt(t,n);let r=o;return t.overdriveMovesLeft===1&&(r=o.filter(i=>{const a=i.to.charCodeAt(1)-49;return a!==0&&a!==7})),{...e,mode:"selecting",selected:n,legalMoves:r,activeAbility:null,abilityTargetSquares:[]}}function In(e,t,n){const o=_t(t,n);return{...e,mode:"abilityTarget",selected:null,legalMoves:[],activeAbility:n,abilityTargetSquares:o}}function G(e){return $t()}function Ln(e,t){return{ability:e,target:t}}function nt(e,t,n){return e+(t-e)*n}function Wn(e){return 1-Math.pow(1-e,3)}function On(e,t,n,o){const r=n-t.startTime;if(r>=t.duration)return!1;const i=Wn(r/t.duration),a=nt(t.fromX,t.toX,i),s=nt(t.fromY,t.toY,i),c=a+o/2,l=s+o/2,f=Math.sin(i*Math.PI)*o*.06;return xt(e,t.color,t.kind,c,l-f,o,t.piece),!0}function Kn(e,t,n){const o=n-t.startTime;if(o>=t.duration)return!1;const r=o/t.duration,i=(1-r)*.55,a=t.x+t.size/2,s=t.y+t.size/2,c=t.size*(.35+r*.45),l=e.createRadialGradient(a,s,0,a,s,c);return u.id==="nexus"?(l.addColorStop(0,`rgba(160,230,255,${i})`),l.addColorStop(1,"rgba(80,160,220,0)")):(l.addColorStop(0,`rgba(255,255,255,${i})`),l.addColorStop(1,"rgba(255,255,255,0)")),e.fillStyle=l,e.fillRect(t.x-t.size*.2,t.y-t.size*.2,t.size*1.4,t.size*1.4),!0}let ne=null,At=!1;function Hn(e){ne=e,At=!!e}function Ue(e,t,n,o,r=0){const i=1+.018*Math.sin(r*1.1),a=o*i;if(At&&ne){const s=ne.naturalWidth/Math.max(1,ne.naturalHeight),c=a*s,l=e.createRadialGradient(t/2,n,0,t/2,n,c*.7);l.addColorStop(0,"rgba(255,255,255,0.07)"),l.addColorStop(1,"rgba(255,255,255,0)"),e.fillStyle=l,e.beginPath(),e.arc(t/2,n,c*.65,0,Math.PI*2),e.fill(),e.drawImage(ne,t/2-c/2,n-a/2,c,a)}else e.fillStyle=u.ink,e.font=`500 ${o*.55}px ${u.font}`,e.textAlign="center",e.textBaseline="middle",e.fillText("NEXUS",t/2,n)}function zn(e,t,n=0){const{ctx:o,width:r,height:i,compact:a,pad:s}=e;t.length=0,J(o,r,i,n);const c=a?96:140,l=i*.3;if(Ue(o,r,l,c,n),o.fillStyle=u.inkMute,o.font=`400 ${a?13:15}px ${u.font}`,o.textAlign="center",o.textBaseline="alphabetic",o.letterSpacing="0.18em",o.fillText("ZONE-CONTROL CHESS",r/2,l+c/2+(a?30:40)),o.letterSpacing="0px",u.pieceMode==="sprites"){const d=["K","Q","B","N","R","P"],g=a?32:42,b=a?8:12,v=d.length*g+(d.length-1)*b,M=l+c/2+(a?52:68);let P=(r-v)/2;for(const p of d){const S=Ie("w",p);S&&o.drawImage(S,P,M,g,g),P+=g+b}const m=M+g+(a?8:10);P=(r-v)/2;for(const p of d){const S=Ie("b",p);S&&o.drawImage(S,P,m,g,g),P+=g+b}}const f=Math.min(260,r-s*2),h={x:(r-f)/2,y:i*.72,w:f,h:a?52:56,id:"home-play"};R(o,h,"Play",{primary:!0,fontSize:a?16:18}),t.push(h)}function Dn(e,t,n,o=0){const{ctx:r,width:i,height:a,compact:s,pad:c}=e;t.length=0,J(r,i,a,o);const l=s?42:56;Ue(r,i,s?48:58,l,o*.6);const f=s?28+l+36:36+l+42,h=Math.min(280,i-c*2),d={x:(i-h)/2,y:f,w:h,h:s?76:86,id:"hub-setelo"};Sn(r,d.x,d.y,d.w,d.h,{strong:!0}),r.fillStyle=u.inkMute,r.font=`400 10px ${u.font}`,r.textAlign="center",r.textBaseline="alphabetic",r.letterSpacing="0.22em",r.fillText("YOUR RATING",i/2,d.y+22),r.letterSpacing="0px",r.fillStyle=u.ink,r.font=`500 ${s?30:36}px ${u.font}`,r.fillText(String(n.rating),i/2,d.y+(s?52:56)),r.fillStyle=u.inkMute,r.font=`400 10px ${u.font}`,r.fillText(n.hasSetRating?`${n.wins}W · ${n.losses}L · tap to change`:"tap to set your rating",i/2,d.y+d.h-14),t.push(d);const g=Math.min(320,i-c*2),b=(i-g)/2,v=s?50:54;let M=d.y+d.h+(s?24:32);const P={x:b,y:M,w:g,h:v,id:"menu-vsai"};R(r,P,"Play Computer",{primary:!0,fontSize:s?15:16}),t.push(P),M+=v+12;const m={x:b,y:M,w:g,h:v,id:"menu-local"};R(r,m,"Local Multiplayer",{fontSize:s?15:16}),t.push(m),M+=v+12;const p={x:b,y:M,w:g,h:v-6,id:"menu-how"};R(r,p,"How to Play",{fontSize:s?13:14}),t.push(p);const S={x:b,y:a-c-40,w:g,h:36,id:"hub-home"};R(r,S,"Home",{fontSize:12}),t.push(S);const w=Math.min(200,g),T={x:(i-w)/2,y:S.y-48,w,h:34,id:"hub-theme"};R(r,T,`Theme · ${u.label}`,{active:u.id==="nexus",fontSize:12}),t.push(T)}function Yn(e,t,n,o,r=0){const{ctx:i,width:a,height:s,compact:c,pad:l}=e;t.length=0,J(i,a,s,r),i.fillStyle=u.ink,i.font=`500 ${c?18:22}px ${u.font}`,i.textAlign="center",i.textBaseline="alphabetic",i.fillText("What's your rating?",a/2,c?36:48),i.fillStyle=u.inkMute,i.font=`400 12px ${u.font}`,i.fillText("Pick a starting level — like Chess.com",a/2,c?58:72);const f=Math.min(340,a-l*2),h=(a-f)/2,d=2,g=8,b=(f-g)/d,v=c?52:58,M=c?80:100;for(let A=0;A<Pe.length;A++){const C=Pe[A],q=A%d,O=Math.floor(A/d),N={x:h+q*(b+g),y:M+O*(v+g),w:b,h:v,id:`elo-preset-${C.elo}`};R(i,N,`${C.label}`,{active:o===C.elo,primary:o===C.elo,sub:String(C.elo),fontSize:c?12:13}),t.push(N)}const P=Math.ceil(Pe.length/d),m=M+P*(v+g)+8,p=(f-10)/2,S={x:h,y:m,w:p,h:40,id:"elo-minus"},w={x:h+p+10,y:m,w:p,h:40,id:"elo-plus"};R(i,S,"− 100",{fontSize:14}),R(i,w,"+ 100",{fontSize:14}),t.push(S,w),i.fillStyle=u.inkDim,i.font=`500 15px ${u.font}`,i.fillText(`Selected  ${o}`,a/2,m+56);const T={x:h,y:s-l-50,w:f,h:46,id:"elo-save"};R(i,T,n.hasSetRating?"Save Rating":"Continue",{primary:!0,fontSize:15}),t.push(T)}function _n(e,t,n,o,r=0){const{ctx:i,width:a,height:s,compact:c,pad:l}=e;t.length=0,J(i,a,s,r),i.fillStyle=u.ink,i.font=`500 ${c?18:22}px ${u.font}`,i.textAlign="center",i.textBaseline="alphabetic",i.fillText("Play Computer",a/2,c?40:52),i.fillStyle=u.inkMute,i.font=`400 12px ${u.font}`,i.fillText(`You  ${n.rating}  ·  choose opponent rating`,a/2,c?64:78),i.fillStyle=u.ink,i.font=`500 ${c?44:56}px ${u.font}`,i.fillText(String(o),a/2,c?122:144);const f=vt(o),h=["","Easy","Normal","Hard","Expert"][f];i.fillStyle=u.inkMute,i.font=`400 12px ${u.font}`,i.letterSpacing="0.16em",i.fillText(h.toUpperCase(),a/2,c?152:180),i.letterSpacing="0px";const d=Math.min(320,a-l*2),g=(a-d)/2,b=c?174:206,v=(d-10)/2,M={x:g,y:b,w:v,h:44,id:"opp-minus"},P={x:g+v+10,y:b,w:v,h:44,id:"opp-plus"};R(i,M,"−",{fontSize:20}),R(i,P,"+",{fontSize:20}),t.push(M,P);const m=b+60,p=4,S=8,w=(d-S*(p-1))/p,T=36;for(let N=0;N<re.length;N++){const U=re[N],Me=N%p,Nt=Math.floor(N/p),Ve={x:g+Me*(w+S),y:m+Nt*(T+S),w,h:T,id:`opp-${U}`};R(i,Ve,String(U),{active:o===U,primary:o===U,fontSize:12}),t.push(Ve)}const A=Math.ceil(re.length/p),C=m+A*(T+S)+16,q={x:g,y:C,w:d,h:48,id:"opp-start"};R(i,q,"Start Game",{primary:!0,fontSize:15}),t.push(q);const O={x:g,y:C+56,w:d,h:40,id:"menu-back"};R(i,O,"Back",{fontSize:13}),t.push(O)}function Gn(e,t,n=0){const{ctx:o,width:r,height:i,compact:a,pad:s}=e;t.length=0,J(o,r,i,n),o.fillStyle=u.ink,o.font=`500 ${a?20:24}px ${u.font}`,o.textAlign="center",o.textBaseline="alphabetic",o.fillText("How to Play",r/2,a?52:64);const c=["Win by holding the Nexus (d4–e5) with your King","for one full round — or capture the enemy King","only while it stands inside the Nexus.","","Kings are invincible outside the Nexus.","Earn Mana to cast Aegis, Overdrive, or Swap","before your move each turn.","","Set your rating, then pick a computer rating","to play — just like Chess.com.","Local multiplayer is unrated."];o.fillStyle=u.inkDim,o.font=`400 ${a?13:14}px ${u.font}`;let l=a?100:120;for(const d of c)o.fillText(d,r/2,l),l+=a?22:26;const f=Math.min(280,r-s*2),h={x:(r-f)/2,y:i-s-48,w:f,h:44,id:"menu-back"};R(o,h,"Back",{primary:!0,fontSize:14}),t.push(h)}function Fn(e,t,n,o=0){const{ctx:r,width:i,height:a,compact:s,pad:c}=e;t.length=0,J(r,i,a,o),Ue(r,i,a*.18,s?44:60,o);const l=n.mode==="ai"?n.winner==="w"?"Victory":"Defeat":`${n.winner==="w"?"White":"Black"} wins`;if(r.fillStyle=u.ink,r.font=`500 ${s?30:40}px ${u.font}`,r.textAlign="center",r.textBaseline="middle",r.fillText(l,i/2,a*.32),n.elo){const b=n.elo.delta>=0?"+":"";r.fillStyle=n.elo.delta>=0?u.ink:u.inkDim,r.font=`500 ${s?22:26}px ${u.font}`,r.fillText(`${n.elo.after}  (${b}${n.elo.delta})`,i/2,a*.42),r.fillStyle=u.inkMute,r.font=`400 12px ${u.font}`,r.fillText(`vs ${n.elo.opponentElo}`,i/2,a*.42+28)}else n.mode==="local"&&(r.fillStyle=u.inkMute,r.font=`400 13px ${u.font}`,r.fillText("Unrated local match",i/2,a*.42));const f=Math.min(280,i-c*2),h=(i-f)/2,d={x:h,y:a*.54,w:f,h:50,id:"result-rematch"},g={x:h,y:a*.54+62,w:f,h:44,id:"result-menu"};R(r,d,"Rematch",{primary:!0,fontSize:15}),R(r,g,"Play Menu",{fontSize:14}),t.push(d,g)}function Xn(e,t,n){for(const o of e)if(t>=o.x&&t<=o.x+o.w&&n>=o.y&&n<=o.y+o.h)return o.id;return null}mn();const fe=document.getElementById("game");let x="home",j="ai",Le=2,I=1200,z=1200,L=Fe(),Qe=null,y=De(lt()),$=$t(),K=[],E=Rt(fe),H=null,ie=null,Q=!1,We=!1;const Un={wK:"♔",wQ:"♕",wR:"♖",wB:"♗",wN:"♘",wP:"♙",bK:"♚",bQ:"♛",bR:"♜",bB:"♝",bN:"♞",bP:"♟"};function Et(){return j==="local"&&y.activeColor==="b"}function Qn(){return j==="local"?"Local":`vs ${I}`}function Vn(e){let t=re[0],n=Math.abs(e-t);for(const o of re){const r=Math.abs(e-o);r<n&&(t=o,n=r)}return t}function Oe(){if(L=Fe(),!L.hasSetRating){z=L.rating,x="setElo";return}x="hub"}function Ce(e,t=I){j=e,I=F(t),Le=e==="ai"?vt(I):0,y=De(lt()),$=G(),H=null,ie=null,Q=!1,We=!1,Qe=null,x="play",qt()}function Jn(){x="home",Q=!1,$=G(),L=Fe()}function Ke(){if(!(!y.winner||x!=="play")){if(!We&&j==="ai"){const{profile:e,result:t}=dn(L,I,y.winner);L=e,Qe=t,We=!0}x="result"}}function qt(){if(j!=="ai"||Le===0||y.winner||y.activeColor!=="b"||Q||x!=="play")return;Q=!0;const e=Le,t=an(e);setTimeout(()=>{if(x!=="play"||y.winner||y.activeColor!=="b"){Q=!1;return}const n=()=>{y=ln(y,e),$=G(),Q=!1,Ke()};e>=2?setTimeout(n,0):n()},t)}function jn(e){const t=fe.getBoundingClientRect(),n=E.width/Math.max(1,t.width),o=E.height/Math.max(1,t.height);return{px:(e.clientX-t.left)*n,py:(e.clientY-t.top)*o}}function Zn(e){var t;if(e==="home-play"){Oe();return}if(e==="hub-home"){Jn();return}if(e==="hub-theme"){const n=u.id==="nexus"?"classic":"nexus";Tt(n),Pt(),(t=document.querySelector('meta[name="theme-color"]'))==null||t.setAttribute("content",u.bg);return}if(e==="hub-setelo"){z=L.rating,x="setElo";return}if(e.startsWith("elo-preset-")){z=Number(e.slice(11));return}if(e==="elo-minus"){z=F(z-Z);return}if(e==="elo-plus"){z=F(z+Z);return}if(e==="elo-save"){L=fn(L,z),x="hub";return}if(e==="menu-vsai"){I=Vn(L.rating),x="aiSelect";return}if(e==="menu-local"){Ce("local");return}if(e==="menu-how"){x="how";return}if(e==="menu-back"){x="hub";return}if(e==="opp-minus"){I=F(Math.max(_e,I-Z));return}if(e==="opp-plus"){I=F(Math.min(Ge,I+Z));return}if(e.startsWith("opp-")&&e!=="opp-start"&&e!=="opp-minus"&&e!=="opp-plus"){I=Number(e.slice(4));return}if(e==="opp-start"){Ce("ai",I);return}if(e==="result-rematch"){Ce(j,I);return}e==="result-menu"&&Oe()}function eo(e){if(H||Q||e.button!==void 0&&e.button!==0&&e.button!==-1)return;e.preventDefault();const{px:t,py:n}=jn(e);if(x!=="play"){const i=Xn(K,t,n);i&&Zn(i);return}const o=Et(),r=Nn($,y,E,K,t,n,o);switch(r.type){case"menu":Oe();break;case"skip":y=ae(y),$=G();break;case"selectAfterSkip":y=ae(y),r.square?$=tt($,y,r.square):$=G();break;case"ability":r.ability&&($=In($,y,r.ability));break;case"abilityTarget":r.ability&&r.square&&(y=mt(y,Ln(r.ability,r.square)),$=G());break;case"select":r.square&&($=tt($,y,r.square));break;case"deselect":$=G();break;case"move":if(r.move){const i=y.board.has(r.move.to),[a,s]=X(E,r.move.from,o),[c,l]=X(E,r.move.to,o),f=y.board.get(r.move.from);f&&(H={fromX:a,fromY:s,toX:c,toY:l,startTime:performance.now(),duration:240,piece:Un[f.color+f.kind]||"?",color:f.color,kind:f.kind,toSq:r.move.to}),i&&(ie={x:c,y:l,size:E.cellSize,startTime:performance.now(),duration:200}),y=se(y,r.move),$=G(),setTimeout(()=>{if(H=null,y.winner){Ke();return}y.turnPhase==="resolved"&&(y=Ye(y),y.winner?Ke():qt())},250)}break}}fe.addEventListener("pointerdown",eo,{passive:!1});fe.addEventListener("contextmenu",e=>e.preventDefault());function ke(){E=Rt(fe)}window.addEventListener("resize",ke);var ot;(ot=window.visualViewport)==null||ot.addEventListener("resize",ke);var rt;(rt=window.visualViewport)==null||rt.addEventListener("scroll",ke);function Bt(e){ke();const t=e/1e3;if(K.length=0,x==="home")zn(E,K,t);else if(x==="hub")Dn(E,K,L,t);else if(x==="setElo")Yn(E,K,L,z,t);else if(x==="aiSelect")_n(E,K,L,I,t);else if(x==="how")Gn(E,K,t);else if(x==="result")Fn(E,K,{winner:y.winner??"w",mode:j,elo:Qe},t);else{const n=Et(),o=(H==null?void 0:H.toSq)??null;En(E,y,t,$.selected,$.legalMoves,$.abilityTargetSquares,$.activeAbility,n,o),H&&(On(E.ctx,H,e,E.cellSize)||(H=null)),ie&&(Kn(E.ctx,ie,e)||(ie=null)),qn(E,y,K,Qn())}requestAnimationFrame(Bt)}requestAnimationFrame(Bt);Tn().then(e=>Hn(e??Pn()));kn();Pt();var it;(it=document.querySelector('meta[name="theme-color"]'))==null||it.setAttribute("content",u.bg);

diff --git a/nexus-chess/src/view/menu.ts b/nexus-chess/src/view/menu.ts
@@ -77,17 +77,24 @@ export function drawHome(dc: DrawCtx, buttons: ButtonRect[], time = 0) {
   ctx.fillText("ZONE-CONTROL CHESS", width / 2, logoY + logoH / 2 + (compact ? 30 : 40));
   ctx.letterSpacing = "0px";
 
-  // Showcase piece lineup on Nexus
+  // Showcase both armies so white vs black reads clearly
   if (Theme.pieceMode === "sprites") {
     const kinds = ["K", "Q", "B", "N", "R", "P"] as const;
-    const size = compact ? 36 : 48;
-    const gap = compact ? 10 : 14;
+    const size = compact ? 32 : 42;
+    const gap = compact ? 8 : 12;
     const total = kinds.length * size + (kinds.length - 1) * gap;
+    const py = logoY + logoH / 2 + (compact ? 52 : 68);
     let px = (width - total) / 2;
-    const py = logoY + logoH / 2 + (compact ? 56 : 72);
     for (const k of kinds) {
       const img = getPieceImage("w", k);
       if (img) ctx.drawImage(img, px, py, size, size);
+      px += size + gap;
+    }
+    const py2 = py + size + (compact ? 8 : 10);
+    px = (width - total) / 2;
+    for (const k of kinds) {
+      const img = getPieceImage("b", k);
+      if (img) ctx.drawImage(img, px, py2, size, size);
       px += size + gap;
     }
   }
@@ -95,7 +102,7 @@ export function drawHome(dc: DrawCtx, buttons: ButtonRect[], time = 0) {
   const btnW = Math.min(260, width - pad * 2);
   const play: ButtonRect = {
     x: (width - btnW) / 2,
-    y: height * 0.68,
+    y: height * 0.72,
     w: btnW,
     h: compact ? 52 : 56,
     id: "home-play",

diff --git a/website/public/games/nexus-chess/web/index.html b/website/public/games/nexus-chess/web/index.html
@@ -38,7 +38,7 @@
       touch-action: none;
     }
   </style>
-  <script type="module" crossorigin src="./assets/index-CApGYFLz.js"></script>
+  <script type="module" crossorigin src="./assets/index-BVtmO4iQ.js"></script>
 </head>
 <body>
   <canvas id="game"></canvas>
